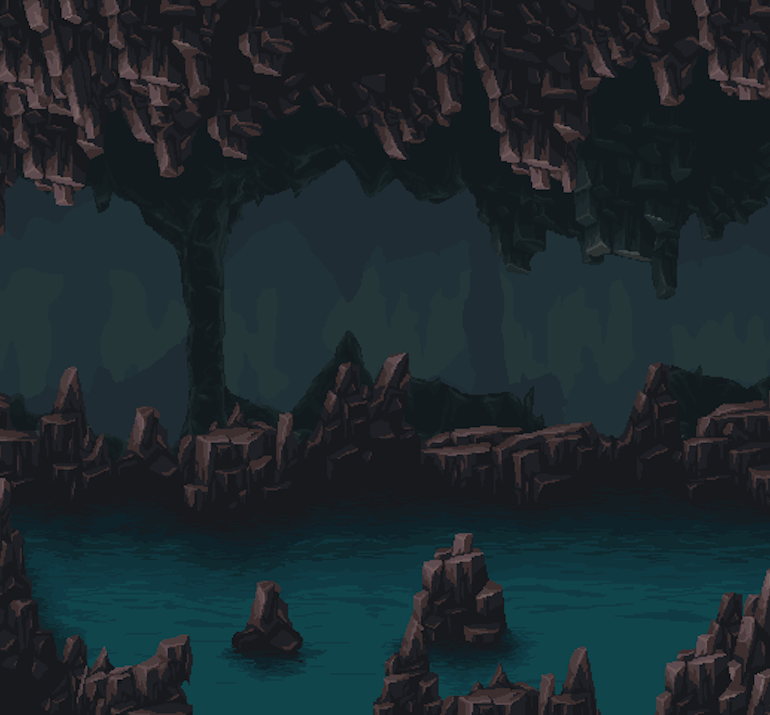
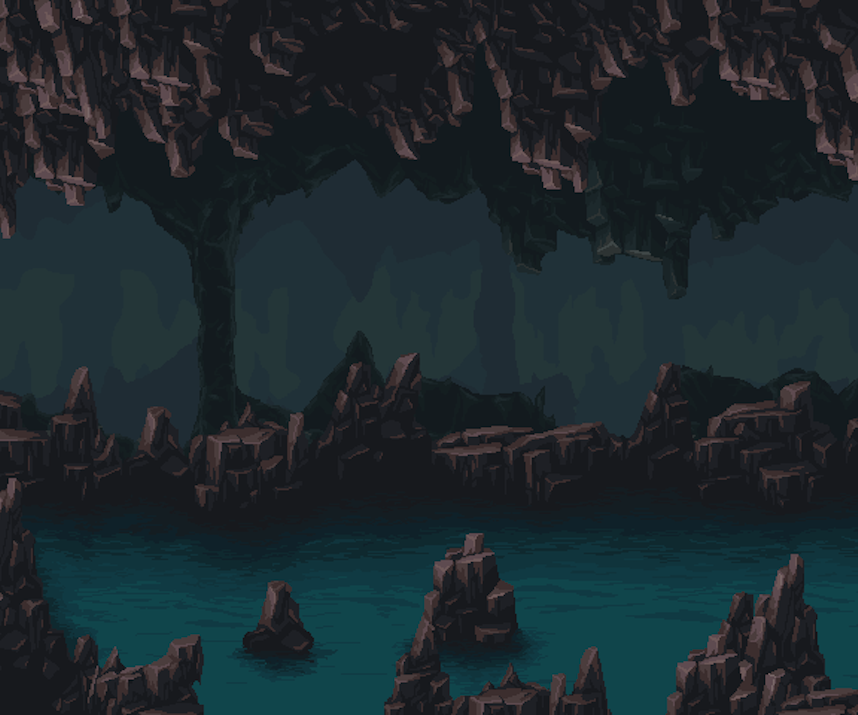
styled two levels

diff --git a/src/levels.js b/src/levels.js
@@ -1,88 +1,85 @@
 const levels = [
+  // {
+  //   map: [0, 0, 0, 0, 0, 0, 0, 0, 0, 0, 0, 0, 0, 0, 0, 0, 0, 0,
+  //     0, 0, 0, 0, 0, 0, 0, 0, 0, 0, 0, 0, 0, 0, 0, 0, 0, 0,
+  //     0, 0, 0, 0, 0, 0, 0, 0, 0, 0, 0, 0, 0, 0, 0, 0, 0, 0,
+  //     0, 0, 0, 0, 0, 0, 0, 0, 0, 0, 0, 0, 0, 0, 0, 0, 0, 0,
+  //     0, 0, 0, 0, 0, 0, 0, 0, 0, 0, 0, 0, 0, 0, 0, 0, 0, 0,
+  //     0, 0, 0, 0, 0, 0, 0, 0, 0, 0, 0, 0, 0, 0, 0, 0, 0, 0,
+  //     0, 0, 0, 0, 0, 0, 0, 0, 0, 0, 0, 0, 0, 0, 0, 0, 0, 0,
+  //     0, 0, 0, 0, 0, 0, 0, 0, 0, 0, 0, 0, 0, 0, 0, 0, 0, 0,
+  //     0, 0, 0, 0, 0, 0, 0, 0, 0, 0, 0, 0, 0, 0, 0, 0, 0, 0,
+  //     0, 0, 0, 0, 0, 0, 0, 0, 0, 0, 0, 0, 0, 0, 0, 0, 0, 0,
+  //     0, 0, 0, 0, 0, 0, 0, 0, 0, 0, 0, 0, 0, 0, 0, 0, 0, 0,
+  //     0, 0, 0, 0, 0, 0, 0, 0, 0, 0, 0, 0, 0, 0, 0, 0, 0, 0,
+  //     0, 0, 0, 0, 0, 0, 0, 0, 0, 0, 0, 0, 0, 0, 0, 0, 0, 0,
+  //     0, 0, 0, 0, 0, 0, 0, 0, 99, 0, 0, 0, 0, 0, 0, 0, 0, 0,
+  //     11, 12, 13, 12, 11, 12, 13, 12, 11, 12, 13, 12, 11, 12, 13, 12, 11, 12],
+
+  //   winningTile: {
+  //     x: 8,
+  //     y: 13
+  //   }
+  // },
+  // {
+  //   map: [0, 0, 0, 0, 0, 0, 0, 0, 0, 0, 0, 0, 0, 0, 0, 0, 0, 0,
+  //         0, 0, 0, 0, 0, 0, 0, 0, 0, 0, 0, 0, 0, 0, 0, 0, 0, 0,
+  //         0, 0, 0, 0, 0, 0, 0, 0, 0, 0, 0, 0, 0, 0, 0, 0, 0, 0,
+  //         0, 0, 0, 0, 0, 0, 0, 0, 0, 0, 0, 0, 0, 0, 0, 0, 0, 0,
+  //         0, 0, 0, 0, 0, 0, 0, 0, 0, 0, 0, 0, 0, 99, 0, 0, 0, 0,
+  //         0, 0, 0, 0, 0, 0, 0, 0, 0, 0, 0, 22, 23, 22, 0, 0, 0, 0,
+  //         0, 0, 0, 0, 0, 0, 0, 0, 0, 0, 0, 21, 0, 21, 0, 0, 0, 0,
+  //         0, 0, 0, 0, 0, 0, 0, 0, 0, 0, 0, 21, 0, 21, 0, 0, 0, 0,
+  //         0, 0, 0, 0, 0, 0, 0, 0, 22, 23, 22, 21, 0, 21, 0, 0, 0, 0,
+  //         0, 0, 0, 0, 0, 0, 0, 0, 21, 0, 21, 21, 0, 21, 0, 0, 0, 0,
+  //         0, 0, 0, 0, 0, 0, 0, 0, 21, 0, 21, 21, 0, 21, 0, 0, 0, 0,
+  //         0, 0, 0, 0, 0, 22, 23, 22, 21, 0, 21, 21, 0, 21, 0, 0, 0, 0,
+  //         0, 0, 0, 0, 0, 21, 0, 21, 21, 0, 21, 21, 0, 21, 0, 0, 0, 0,
+  //         0, 0, 0, 0, 0, 21, 0, 21, 21, 0, 21, 21, 0, 21, 0, 0, 0, 0,
+  //         11, 12, 13, 12, 11, 12, 13, 12, 11, 12, 13, 12, 11, 12, 13, 12, 11, 12],
+
+  //   winningTile: {
+  //     x: 13,
+  //     y: 4
+  //   }
+  // },
+  // {
+  //   map: [0, 0, 0, 0, 0, 0, 0, 0, 0, 0, 0, 0, 0, 0, 0, 0, 0, 0,
+  //     0, 0, 0, 0, 0, 0, 0, 0, 0, 0, 0, 0, 0, 0, 0, 0, 0, 0,
+  //     0, 0, 0, 0, 0, 0, 0, 0, 0, 0, 0, 0, 0, 0, 0, 0, 0, 0,
+  //     0, 0, 0, 0, 0, 0, 0, 0, 0, 0, 0, 0, 0, 0, 0, 0, 0, 0,
+  //     0, 0, 0, 0, 0, 0, 0, 0, 0, 0, 0, 0, 0, 0, 0, 0, 0, 0,
+  //     0, 0, 0, 6, 0, 0, 0, 0, 0, 0, 0, 0, 0, 0, 0, 0, 0, 0,
+  //     0, 0, 0, 32, 33, 34, 0, 0, 0, 0, 0, 0, 0, 0, 0, 0, 0, 0,
+  //     0, 0, 0, 0, 0, 0, 0, 0, 22, 22, 0, 0, 0, 0, 0, 0, 0, 0,
+  //     0, 0, 0, 0, 0, 0, 0, 0, 21, 21, 0, 0, 0, 0, 0, 0, 0, 0,
+  //     0, 0, 0, 0, 0, 0, 0, 0, 21, 21, 0, 0, 31, 31, 31, 0, 0, 0,
+  //     0, 0, 0, 0, 0, 0, 0, 0, 21, 21, 0, 0, 0, 0, 0, 0, 0, 0,
+  //     0, 0, 0, 0, 0, 0, 0, 37, 11, 38, 0, 0, 0, 0, 0, 0, 0, 0,
+  //     0, 0, 0, 0, 31, 0, 0, 36, 51, 39, 0, 0, 0, 0, 0, 0, 0, 0,
+  //     0, 0, 0, 0, 21, 0, 0, 36, 53, 40, 13, 12, 11, 12, 13, 12, 11, 12,
+  //     11, 12, 13, 12, 38, 0, 0, 36, 52, 53, 52, 53, 51, 53, 52, 53, 51, 53],
+
+  //   winningTile: {
+  //     x: 3,
+  //     y: 5
+  //   }
+  // },
   {
-    map: [4, 0, 0, 0, 0, 0, 0, 0, 0, 0, 0, 0, 0, 0, 0, 0, 0, 5,
-      4, 0, 0, 0, 0, 0, 0, 0, 0, 0, 0, 0, 0, 0, 0, 0, 0, 5,
-      4, 0, 0, 0, 0, 0, 0, 0, 0, 0, 0, 0, 0, 0, 0, 0, 0, 5,
-      4, 0, 0, 0, 0, 0, 0, 0, 0, 0, 0, 0, 0, 0, 0, 0, 0, 5,
-      4, 0, 0, 0, 0, 0, 0, 0, 0, 0, 0, 0, 0, 0, 0, 0, 0, 5,
-      4, 0, 0, 0, 0, 0, 0, 0, 0, 0, 0, 0, 0, 0, 0, 0, 0, 5,
-      4, 0, 0, 0, 0, 0, 0, 0, 0, 0, 0, 0, 0, 0, 0, 0, 0, 5,
-      4, 0, 0, 0, 0, 0, 0, 0, 0, 0, 0, 0, 0, 0, 0, 0, 0, 5,
-      4, 0, 0, 0, 0, 0, 0, 0, 0, 0, 0, 0, 0, 0, 0, 0, 0, 5,
-      4, 0, 0, 0, 0, 0, 0, 0, 0, 0, 0, 0, 0, 0, 0, 0, 0, 5,
-      4, 0, 0, 0, 0, 0, 0, 0, 0, 0, 0, 0, 0, 0, 0, 0, 0, 5,
-      4, 0, 0, 0, 0, 0, 0, 0, 0, 0, 0, 0, 0, 0, 0, 0, 0, 5,
-      4, 0, 0, 0, 0, 0, 0, 0, 0, 0, 0, 0, 0, 0, 0, 0, 0, 5,
-      4, 0, 0, 0, 0, 0, 0, 0, 6, 0, 0, 0, 0, 0, 0, 0, 0, 5,
-      1, 1, 1, 1, 1, 1, 1, 1, 1, 1, 1, 1, 1, 1, 1, 1, 1, 1],
-
-    winningTile: {
-      x: 8,
-      y: 13
-    }
-
-  },
-  {
-    map: [4, 0, 0, 0, 0, 0, 0, 0, 0, 0, 0, 0, 0, 0, 0, 0, 0, 5,
-      4, 0, 0, 0, 0, 0, 0, 0, 0, 0, 0, 0, 0, 0, 0, 0, 0, 5,
-      4, 0, 0, 0, 0, 0, 0, 0, 0, 0, 0, 0, 0, 0, 0, 0, 0, 5,
-      4, 0, 0, 0, 0, 0, 0, 0, 0, 0, 0, 0, 0, 0, 0, 0, 0, 5,
-      4, 0, 0, 0, 0, 0, 0, 0, 0, 0, 0, 0, 0, 6, 0, 0, 0, 5,
-      4, 0, 0, 0, 0, 0, 0, 0, 0, 0, 0, 3, 3, 3, 0, 0, 0, 5,
-      4, 0, 0, 0, 0, 0, 0, 0, 0, 0, 0, 0, 0, 0, 0, 0, 0, 5,
-      4, 0, 0, 0, 0, 0, 0, 0, 0, 0, 0, 0, 0, 0, 0, 0, 0, 5,
-      4, 0, 0, 0, 0, 0, 0, 0, 3, 3, 3, 0, 0, 0, 0, 0, 0, 5,
-      4, 0, 0, 0, 0, 0, 0, 0, 0, 0, 0, 0, 0, 0, 0, 0, 0, 5,
-      4, 0, 0, 0, 0, 0, 0, 0, 0, 0, 0, 0, 0, 0, 0, 0, 0, 5,
-      4, 0, 0, 0, 0, 3, 3, 3, 0, 0, 0, 0, 0, 0, 0, 0, 0, 5,
-      4, 0, 0, 0, 0, 0, 0, 0, 0, 0, 0, 0, 0, 0, 0, 0, 0, 5,
-      4, 0, 0, 0, 0, 0, 0, 0, 0, 0, 0, 0, 0, 0, 0, 0, 0, 5,
-      1, 1, 1, 1, 1, 1, 1, 1, 1, 1, 1, 1, 1, 1, 1, 1, 1, 1],
-
-    winningTile: {
-      x: 13,
-      y: 4
-    }
-
-  },
-  {
-    map: [4, 0, 0, 0, 0, 0, 0, 0, 0, 0, 0, 0, 0, 0, 0, 0, 0, 5,
-      4, 0, 0, 0, 0, 0, 0, 0, 0, 0, 0, 0, 0, 0, 0, 0, 0, 5,
-      4, 0, 0, 0, 0, 0, 0, 0, 0, 0, 0, 0, 0, 0, 0, 0, 0, 5,
-      4, 0, 0, 0, 0, 0, 0, 0, 0, 0, 0, 0, 0, 0, 0, 0, 0, 5,
-      4, 0, 0, 0, 0, 0, 0, 0, 0, 0, 0, 0, 0, 0, 0, 0, 0, 5,
-      4, 0, 0, 6, 0, 0, 0, 0, 0, 0, 0, 0, 0, 0, 0, 0, 0, 5,
-      4, 0, 0, 2, 2, 2, 0, 0, 0, 0, 0, 0, 0, 0, 0, 0, 0, 5,
-      4, 0, 0, 0, 0, 0, 0, 0, 3, 3, 0, 0, 0, 0, 0, 0, 0, 5,
-      4, 0, 0, 0, 0, 0, 0, 0, 0, 0, 0, 0, 0, 0, 0, 0, 0, 5,
-      4, 0, 0, 0, 0, 0, 0, 0, 0, 0, 0, 0, 2, 0, 0, 0, 0, 5,
-      4, 0, 0, 0, 0, 0, 0, 0, 0, 0, 0, 0, 0, 0, 0, 0, 0, 5,
-      4, 0, 0, 0, 0, 0, 0, 2, 2, 2, 0, 0, 0, 0, 0, 0, 0, 5,
-      4, 0, 0, 0, 2, 0, 0, 2, 2, 2, 0, 0, 0, 0, 0, 0, 0, 5,
-      4, 0, 0, 0, 2, 0, 0, 2, 2, 2, 0, 0, 0, 0, 0, 0, 0, 5,
-      1, 1, 1, 1, 1, 0, 0, 1, 1, 1, 1, 1, 1, 1, 1, 1, 1, 1],
-
-    winningTile: {
-      x: 3,
-      y: 5
-    }
-
-  },
-  {
-    map: [4, 0, 0, 0, 0, 0, 0, 0, 0, 0, 0, 0, 0, 0, 0, 0, 0, 5,
-      4, 0, 0, 0, 0, 0, 0, 0, 0, 0, 0, 0, 0, 0, 0, 0, 0, 5,
-      4, 0, 0, 0, 6, 0, 0, 0, 0, 0, 0, 0, 0, 0, 0, 0, 0, 5,
-      4, 0, 0, 0, 3, 3, 3, 3, 3, 0, 0, 0, 0, 0, 0, 0, 0, 5,
-      4, 0, 0, 0, 0, 0, 0, 0, 0, 0, 0, 0, 0, 0, 0, 0, 0, 5,
-      4, 0, 0, 0, 0, 0, 0, 0, 0, 0, 3, 3, 0, 0, 0, 0, 0, 5,
-      4, 0, 0, 0, 0, 0, 2, 0, 0, 0, 0, 0, 0, 0, 0, 0, 0, 5,
-      4, 0, 0, 0, 0, 0, 2, 0, 0, 0, 0, 0, 0, 0, 0, 0, 0, 5,
-      4, 0, 0, 0, 3, 3, 3, 3, 3, 0, 0, 0, 0, 0, 0, 0, 0, 5,
-      4, 0, 0, 0, 0, 0, 0, 0, 0, 0, 0, 0, 0, 0, 0, 0, 0, 5,
-      4, 3, 0, 0, 0, 0, 0, 0, 0, 0, 0, 0, 0, 0, 0, 0, 0, 5,
-      4, 0, 0, 0, 0, 0, 0, 0, 0, 0, 0, 0, 0, 0, 0, 0, 0, 5,
-      4, 0, 0, 0, 2, 0, 0, 0, 0, 0, 0, 0, 0, 0, 0, 0, 0, 5,
-      4, 0, 0, 0, 2, 0, 0, 0, 0, 0, 0, 0, 0, 0, 0, 0, 0, 5,
+    map: [4, 0, 0, 0, 0, 0, 0, 0, 0, 0, 0, 0, 0, 0, 0, 0, 0, 0,
+      4, 0, 0, 0, 0, 0, 0, 0, 0, 0, 0, 0, 0, 0, 0, 0, 0, 0,
+      4, 0, 0, 0, 6, 0, 0, 0, 0, 0, 0, 0, 0, 0, 0, 0, 0, 0,
+      4, 0, 0, 0, 3, 3, 3, 3, 3, 0, 0, 0, 0, 0, 0, 0, 0, 0,
+      4, 0, 0, 0, 0, 0, 0, 0, 0, 0, 0, 0, 0, 0, 0, 0, 0, 0,
+      4, 0, 0, 0, 0, 0, 0, 0, 0, 0, 3, 3, 0, 0, 0, 0, 0, 0,
+      4, 0, 0, 0, 0, 0, 2, 0, 0, 0, 0, 0, 0, 0, 0, 0, 0, 0,
+      4, 0, 0, 0, 0, 0, 2, 0, 0, 0, 0, 0, 0, 0, 0, 0, 0, 0,
+      4, 0, 0, 0, 3, 3, 3, 3, 3, 0, 0, 0, 0, 0, 0, 0, 0, 0,
+      4, 0, 0, 0, 0, 0, 0, 0, 0, 0, 0, 0, 0, 0, 0, 0, 0, 0,
+      4, 3, 0, 0, 0, 0, 0, 0, 0, 0, 0, 0, 0, 0, 0, 0, 0, 0,
+      4, 0, 0, 0, 0, 0, 0, 0, 0, 0, 0, 0, 0, 0, 0, 0, 0, 0,
+      4, 0, 0, 0, 2, 0, 0, 0, 0, 0, 0, 0, 0, 0, 0, 0, 0, 0,
+      4, 0, 0, 0, 2, 0, 0, 0, 0, 0, 0, 0, 0, 0, 0, 0, 0, 0,
       1, 1, 1, 1, 1, 1, 1, 1, 1, 1, 1, 1, 1, 1, 1, 1, 1, 1],
 
     winningTile: {

diff --git a/src/js/map.js b/src/js/map.js
@@ -8,12 +8,24 @@ export default class Map {
     this.GAME_COLUMNS = gameColumns;
     this.winningTile = winningTile;
     this.gameOver = false
+    this._setTileset()
+    this._setBackgroundImage()
   }
 
   drawMap() {
+    this.ctx.drawImage(this.backgroundImage, 0, 0, this.GRID_SIZE * this.GAME_COLUMNS, this.GRID_SIZE * this.GAME_ROWS)
+
     for (let index = 0; index < this.gridMap.length; index++) {
-      this._selectGridStyle(index)
-      this.ctx.fillRect((index % this.GAME_COLUMNS) * this.GRID_SIZE, Math.floor(index / this.GAME_COLUMNS) * this.GRID_SIZE, this.GRID_SIZE, this.GRID_SIZE);
+      // this._selectGridStyle(index)
+      // this.ctx.fillRect((index % this.GAME_COLUMNS) * this.GRID_SIZE, Math.floor(index / this.GAME_COLUMNS) * this.GRID_SIZE, this.GRID_SIZE, this.GRID_SIZE);
+
+      let source_x = this.tileStyle[this.gridMap[index]][0] * this.tileSize;
+      let source_y = this.tileStyle[this.gridMap[index]][1] * this.tileSize;
+
+      this.ctx.drawImage(this.sheetImage, source_x ,  source_y, this.tileSize, this.tileSize, 
+                        (index % this.GAME_COLUMNS) * this.GRID_SIZE, 
+                        Math.floor(index / this.GAME_COLUMNS) * this.GRID_SIZE, 
+                        this.GRID_SIZE, this.GRID_SIZE)
     }
   }
 
@@ -56,5 +68,47 @@ export default class Map {
         this.ctx.fillStyle = "#FFFF00"
         break;
     }
+  }
+
+  get tileStyle() {
+    return {
+      0: [0, 0], 1: [3, 6], 2: [5, 4], 3: [3, 10], 4: [3, 6], 5: [3, 6],
+      6: [1, 4],
+      // floor
+      11: [3, 6], 12: [5, 6], 13: [7, 6],
+      // platform
+      21: [1, 10], // scaffold
+      22: [3, 10], // plat w/ scaffold
+      23: [5, 10], // plat w/o scaffold
+      // obstacle
+      31: [5, 4], // obstacle w/ scaffold
+      32: [7, 4], // obstacle brick left
+      33: [9, 4], // obstacle brick left
+      34: [1, 6], // obstacle brick left
+
+      36: [1, 8], // ground obstacle - 2
+      37: [3, 8], // ground obstacle - 3
+      38: [5, 8], // ground obstacle - 4      
+      39: [7, 8], // ground obstacle - 5
+      40: [9, 8], // ground obstacle - 6
+      // dark
+      51: [1, 2], // dark - 1
+      52: [3, 2], // dark - 1
+      53: [5, 2], // dark - 1
+
+      // winning tile (to change)
+      99: [1, 4]
+    }
+  }
+
+  _setTileset() {
+    this.sheetImage = new Image();
+    this.sheetImage.src = "./assets/tile-sprite.png";
+    this.tileSize = 48;
+  }
+
+  _setBackgroundImage() {
+    this.backgroundImage = new Image();
+    this.backgroundImage.src = './assets/canvas-background.png'
   }
 }

diff --git a/src/js/collision.js b/src/js/collision.js
@@ -19,13 +19,28 @@ export default class Collision {
   gridCollisionType(value, tile_x, tile_y) {
     // eslint-disable-next-line default-case
     switch(value) {
-      case 0: break;
       case 1: this.collidePlatformTop(tile_y); break;
       case 2: this.allSidesCollision(tile_x, tile_y); break;
       case 3: this.collidePlatformTop(tile_y); break;
       case 4: this.collidePlatformRight(tile_x + this.gridSize); break;
       case 5: this.collidePlatformLeft(tile_x); break;
-      case 6: break;
+
+      case 11: this.collidePlatformTop(tile_y); break; // floor - 1 
+      case 12: this.collidePlatformTop(tile_y); break; // floor - 2 
+      case 13: this.collidePlatformTop(tile_y); break; // floor - 3 
+
+      case 22: this.collidePlatformTop(tile_y); break; // plat-scaffold 
+      case 23: this.collidePlatformTop(tile_y); break; // plat-no-scaffold 
+
+      case 31: this.allSidesCollision(tile_x, tile_y); break; // obst-scaffold
+      case 32: this.allSidesCollision(tile_x, tile_y); break; // obst-brick-left
+      case 33: this.allSidesCollision(tile_x, tile_y); break; // obst-brick-middle
+      case 34: this.allSidesCollision(tile_x, tile_y); break; // obst-brick-right
+      case 36: this.allSidesCollision(tile_x, tile_y); break; // obst-ground-2
+      case 37: this.allSidesCollision(tile_x, tile_y); break; // obst-ground-3
+      case 38: this.allSidesCollision(tile_x, tile_y); break; // obst-ground-4
+      case 39: this.allSidesCollision(tile_x, tile_y); break; // obst-ground-5
+      case 40: this.allSidesCollision(tile_x, tile_y); break; // obst-ground-6
     }
   }
 
